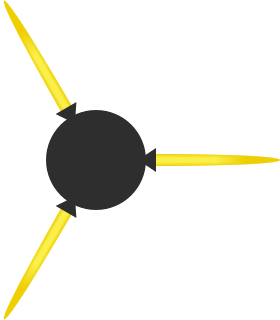
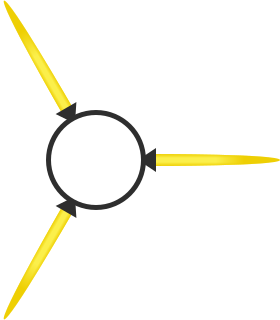
Reimplement onion fading

Changed region(s): [[0.1714, 0.3438, 0.5143, 0.6562]]

diff --git a/source/source/content/mob/mob.cpp b/source/source/content/mob/mob.cpp
@@ -129,6 +129,12 @@ const float PUSH_THROTTLE_FACTOR = 0.1f;
 //Before this much time, a mob can't push others as effectively.
 const float PUSH_THROTTLE_TIMEOUT = 1.0f;
 
+//Mob opacity when a player is nearby, if enabled.
+const unsigned char SEETHROUGH_ALPHA = 128;
+
+//Mob opacity when a player is nearby, if enabled.
+const float SEETHROUGH_FADE_SPEED = 255.0f;
+
 //Multiply the stretch of the shadow by this much.
 const float SHADOW_STRETCH_MULT = 0.5f;
 
@@ -1719,9 +1725,10 @@ void Mob::drawMob() {
         SPRITE_BMP_EFFECT_FLAG_HEIGHT |
         SPRITE_BMP_EFFECT_DELIVERY |
         SPRITE_BMP_EFFECT_CARRY |
-        (type->useDamageSquashAndStretch ? SPRITE_BMP_EFFECT_DAMAGE : 0)
+        (type->useDamageSquashAndStretch ? SPRITE_BMP_EFFECT_DAMAGE : 0) |
+        (type->useNearbyPlayerSeethrough ? SPRITE_BMP_EFFECT_NEARBY_PLAYER_SEETHROUGH : 0)
     );
-    
+
     drawBitmapWithEffects(curSPtr->bitmap, eff);
 }
 
@@ -2613,6 +2620,9 @@ void Mob::getSpriteBitmapEffects(
             info->tf.rot -=
                 factor1 * MOB::CARRY_SWAY_ROTATION_AMOUNT;
         }
+    }
+    if(hasFlag(effects, SPRITE_BMP_EFFECT_NEARBY_PLAYER_SEETHROUGH)){
+        info->tintColor.a *= (nearbyPlayerSeethrough / 255.0f);
     }
 }
 
@@ -4274,6 +4284,49 @@ void Mob::tickMiscLogic(float deltaT) {
     ) {
         deliveryInfo->animTimeRatioLeft = scriptTimer.getRatioLeft();
     }
+
+    //Nearby player alpha
+    if(type->useNearbyPlayerSeethrough) {
+        unsigned char finalAlpha = 255;
+    
+        for(const Player& player : game.states.gameplay->players) {
+            if(!player.leaderPtr) continue;
+            if(
+                bBoxCheck(
+                    player.leaderPtr->pos, pos,
+                    player.leaderPtr->radius + radius * 3
+                )
+            ) {
+                finalAlpha = MOB::SEETHROUGH_ALPHA;
+            }
+            
+            if(
+                bBoxCheck(
+                    player.leaderCursorWorld, pos,
+                    player.leaderPtr->radius + radius * 3
+                )
+            ) {
+                finalAlpha = MOB::SEETHROUGH_ALPHA;
+            }
+        }
+        
+        if(nearbyPlayerSeethrough != finalAlpha) {
+            if(finalAlpha < nearbyPlayerSeethrough) {
+                nearbyPlayerSeethrough =
+                    std::max(
+                        (double) finalAlpha,
+                        (double) nearbyPlayerSeethrough - MOB::SEETHROUGH_FADE_SPEED * deltaT
+                    );
+            } else {
+                nearbyPlayerSeethrough =
+                    std::min(
+                        (double) finalAlpha,
+                        (double) nearbyPlayerSeethrough + MOB::SEETHROUGH_FADE_SPEED * deltaT
+                    );
+            }
+        }
+    }
+    
 }
 
 

diff --git a/source/source/content/mob/onion.cpp b/source/source/content/mob/onion.cpp
@@ -25,9 +25,6 @@ using std::string;
 
 namespace ONION {
 
-//How quickly an Onion fades to and from see-through, in values per second.
-const float FADE_SPEED = 255.0f;
-
 //Delay before the Onion starts the generation process.
 const float GENERATION_DELAY = 2.0f;
 
@@ -36,9 +33,6 @@ const float NEW_SEED_Z_OFFSET = 320.0f;
 
 //Interval between each individual Pikmin generation.
 const float NEXT_GENERATION_INTERVAL = 0.10f;
-
-//Onion opacity when it goes see-through.
-const unsigned char SEETHROUGH_ALPHA = 128;
 
 //After spitting a seed, the next seed's angle shifts by this much.
 const float SPIT_ANGLE_SHIFT = TAU * 0.12345;
@@ -121,7 +115,8 @@ void Onion::drawMob() {
         SPRITE_BMP_EFFECT_FLAG_SECTOR_BRIGHTNESS |
         SPRITE_BMP_EFFECT_FLAG_HEIGHT |
         SPRITE_BMP_EFFECT_DELIVERY |
-        (type->useDamageSquashAndStretch ? SPRITE_BMP_EFFECT_DAMAGE : 0)
+        (type->useDamageSquashAndStretch ? SPRITE_BMP_EFFECT_DAMAGE : 0) |
+        (type->useNearbyPlayerSeethrough ? SPRITE_BMP_EFFECT_NEARBY_PLAYER_SEETHROUGH : 0)
     );
     
     if(nest->nestType->pikTypes.size() == 1) {
@@ -139,9 +134,7 @@ void Onion::drawMob() {
         al_set_shader_float("opacity", 1.0f);
         al_set_shader_float("scale", 0.2f);
     }
-    
     drawBitmapWithEffects(curSPtr->bitmap, eff);
-    //eff.tintColor.a *= (seethrough / 255.0f);
     al_use_shader(nullptr);
 }
 
@@ -234,45 +227,5 @@ void Onion::stopGenerating() {
 void Onion::tickClassSpecifics(float deltaT) {
     generationDelayTimer.tick(deltaT);
     nextGenerationTimer.tick(deltaT);
-    
-    unsigned char finalAlpha = 255;
-    
-    for(const Player& player : game.states.gameplay->players) {
-        if(!player.leaderPtr) continue;
-        if(
-            bBoxCheck(
-                player.leaderPtr->pos, pos,
-                player.leaderPtr->radius + radius * 3
-            )
-        ) {
-            finalAlpha = ONION::SEETHROUGH_ALPHA;
-        }
-        
-        if(
-            bBoxCheck(
-                player.leaderCursorWorld, pos,
-                player.leaderPtr->radius + radius * 3
-            )
-        ) {
-            finalAlpha = ONION::SEETHROUGH_ALPHA;
-        }
-    }
-    
-    if(seethrough != finalAlpha) {
-        if(finalAlpha < seethrough) {
-            seethrough =
-                std::max(
-                    (double) finalAlpha,
-                    (double) seethrough - ONION::FADE_SPEED * deltaT
-                );
-        } else {
-            seethrough =
-                std::min(
-                    (double) finalAlpha,
-                    (double) seethrough + ONION::FADE_SPEED * deltaT
-                );
-        }
-    }
-    
     nest->tick(deltaT);
 }

diff --git a/source/source/content/mob/mob.h b/source/source/content/mob/mob.h
@@ -70,6 +70,8 @@ extern const float PUSH_EXTRA_AMOUNT;
 extern const float PUSH_SOFTLY_AMOUNT;
 extern const float PUSH_THROTTLE_FACTOR;
 extern const float PUSH_THROTTLE_TIMEOUT;
+extern const unsigned char SEETHROUGH_ALPHA;
+extern const float SEETHROUGH_FADE_SPEED;
 extern const float SHADOW_STRETCH_MULT;
 extern const float SHADOW_Y_MULT;
 extern const float SMACK_PARTICLE_DUR;
@@ -312,6 +314,9 @@ public:
     
     //Time left in the current damage squash and stretch animation.
     float damageSquashTime = 0.0f;
+
+    //TODO
+    unsigned char nearbyPlayerSeethrough = 255;
     
     //Particle generators attached to it.
     vector<ParticleGenerator> particleGenerators;

diff --git a/source/source/content/mob/pikmin.cpp b/source/source/content/mob/pikmin.cpp
@@ -133,7 +133,8 @@ void Pikmin::drawMob() {
         SPRITE_BMP_EFFECT_FLAG_SECTOR_BRIGHTNESS |
         SPRITE_BMP_EFFECT_FLAG_HEIGHT |
         SPRITE_BMP_EFFECT_DELIVERY |
-        (type->useDamageSquashAndStretch ? SPRITE_BMP_EFFECT_DAMAGE : 0)
+        (type->useDamageSquashAndStretch ? SPRITE_BMP_EFFECT_DAMAGE : 0) |
+        (type->useNearbyPlayerSeethrough ? SPRITE_BMP_EFFECT_NEARBY_PLAYER_SEETHROUGH : 0)
     );
     BitmapEffect pikSpriteEff = mobEff;
     getSpriteBitmapEffects(

diff --git a/source/source/content/mob/leader.cpp b/source/source/content/mob/leader.cpp
@@ -714,7 +714,8 @@ void Leader::drawMob() {
         SPRITE_BMP_EFFECT_FLAG_HEIGHT |
         SPRITE_BMP_EFFECT_DELIVERY |
         SPRITE_BMP_EFFECT_CARRY |
-        (type->useDamageSquashAndStretch ? SPRITE_BMP_EFFECT_DAMAGE : 0)
+        (type->useDamageSquashAndStretch ? SPRITE_BMP_EFFECT_DAMAGE : 0) |
+        (type->useNearbyPlayerSeethrough ? SPRITE_BMP_EFFECT_NEARBY_PLAYER_SEETHROUGH : 0)
     );
     BitmapEffect leaSpriteEff = mobEff;
     getSpriteBitmapEffects(

diff --git a/source/source/content/mob/decoration.cpp b/source/source/content/mob/decoration.cpp
@@ -80,7 +80,8 @@ void Decoration::drawMob() {
         SPRITE_BMP_EFFECT_FLAG_SECTOR_BRIGHTNESS |
         SPRITE_BMP_EFFECT_FLAG_HEIGHT |
         SPRITE_BMP_EFFECT_DELIVERY |
-        (type->useDamageSquashAndStretch ? SPRITE_BMP_EFFECT_DAMAGE : 0)
+        (type->useDamageSquashAndStretch ? SPRITE_BMP_EFFECT_DAMAGE : 0) |
+        (type->useNearbyPlayerSeethrough ? SPRITE_BMP_EFFECT_NEARBY_PLAYER_SEETHROUGH : 0)
     );
     
     eff.tintColor.r *= individualTint.r;

diff --git a/source/source/content/mob/pellet.cpp b/source/source/content/mob/pellet.cpp
@@ -53,7 +53,8 @@ void Pellet::drawMob() {
         SPRITE_BMP_EFFECT_FLAG_HEIGHT |
         SPRITE_BMP_EFFECT_DELIVERY |
         SPRITE_BMP_EFFECT_CARRY |
-        (type->useDamageSquashAndStretch ? SPRITE_BMP_EFFECT_DAMAGE : 0)
+        (type->useDamageSquashAndStretch ? SPRITE_BMP_EFFECT_DAMAGE : 0) |
+        (type->useNearbyPlayerSeethrough ? SPRITE_BMP_EFFECT_NEARBY_PLAYER_SEETHROUGH : 0)
     );
     
     Point bmpSize = getBitmapDimensions(curSPtr->bitmap);

diff --git a/source/source/content/mob/drop.cpp b/source/source/content/mob/drop.cpp
@@ -52,7 +52,8 @@ void Drop::drawMob() {
         SPRITE_BMP_EFFECT_FLAG_SECTOR_BRIGHTNESS |
         SPRITE_BMP_EFFECT_FLAG_HEIGHT |
         SPRITE_BMP_EFFECT_DELIVERY |
-        (type->useDamageSquashAndStretch ? SPRITE_BMP_EFFECT_DAMAGE : 0)
+        (type->useDamageSquashAndStretch ? SPRITE_BMP_EFFECT_DAMAGE : 0) |
+        (type->useNearbyPlayerSeethrough ? SPRITE_BMP_EFFECT_NEARBY_PLAYER_SEETHROUGH : 0)
     );
     
     eff.tf.scale *= curScale;

diff --git a/source/source/content/mob/enemy.cpp b/source/source/content/mob/enemy.cpp
@@ -92,7 +92,8 @@ void Enemy::drawMob() {
         SPRITE_BMP_EFFECT_FLAG_HEIGHT |
         SPRITE_BMP_EFFECT_DELIVERY |
         (type->useDamageSquashAndStretch ? SPRITE_BMP_EFFECT_DAMAGE : 0) |
-        SPRITE_BMP_EFFECT_CARRY
+        SPRITE_BMP_EFFECT_CARRY |
+        (type->useNearbyPlayerSeethrough ? SPRITE_BMP_EFFECT_NEARBY_PLAYER_SEETHROUGH : 0)
     );
     drawBitmapWithEffects(curSPtr->bitmap, eff);
     drawStatusEffectBmp(this, eff);

diff --git a/source/source/content/mob_type/mob_type.cpp b/source/source/content/mob_type/mob_type.cpp
@@ -286,6 +286,7 @@ void MobType::loadFromDataNode(
     tRS.set("terrain_radius", terrainRadius);
     tRS.set("territory_radius", territoryRadius);
     tRS.set("use_damage_squash_and_stretch", useDamageSquashAndStretch);
+    tRS.set("use_nearby_player_fade", useNearbyPlayerSeethrough);
     tRS.set("vertical_speed_multiplier", verticalSpeedMult);
     tRS.set("walkable", walkable);
     tRS.set("weight", weight);

diff --git a/source/source/content/mob/onion.h b/source/source/content/mob/onion.h
@@ -21,11 +21,9 @@
 
 
 namespace ONION {
-extern const float FADE_SPEED;
 extern const float GENERATION_DELAY;
 extern const float NEW_SEED_Z_OFFSET;
 extern const float NEXT_GENERATION_INTERVAL;
-extern const unsigned char SEETHROUGH_ALPHA;
 extern const float SPIT_ANGLE_SHIFT;
 extern const float SPIT_H_SPEED;
 extern const float SPIT_H_SPEED_DEVIATION;

diff --git a/source/source/content/mob_type/mob_type.h b/source/source/content/mob_type/mob_type.h
@@ -289,6 +289,9 @@ public:
     
     //Does it cast a shadow?
     bool castsShadow = true;
+
+    //Whether to use the nearby player fade effect.
+    bool useNearbyPlayerSeethrough = false;
     
     //Whether to use the damage squash-and-stretch effect.
     bool useDamageSquashAndStretch = false;
